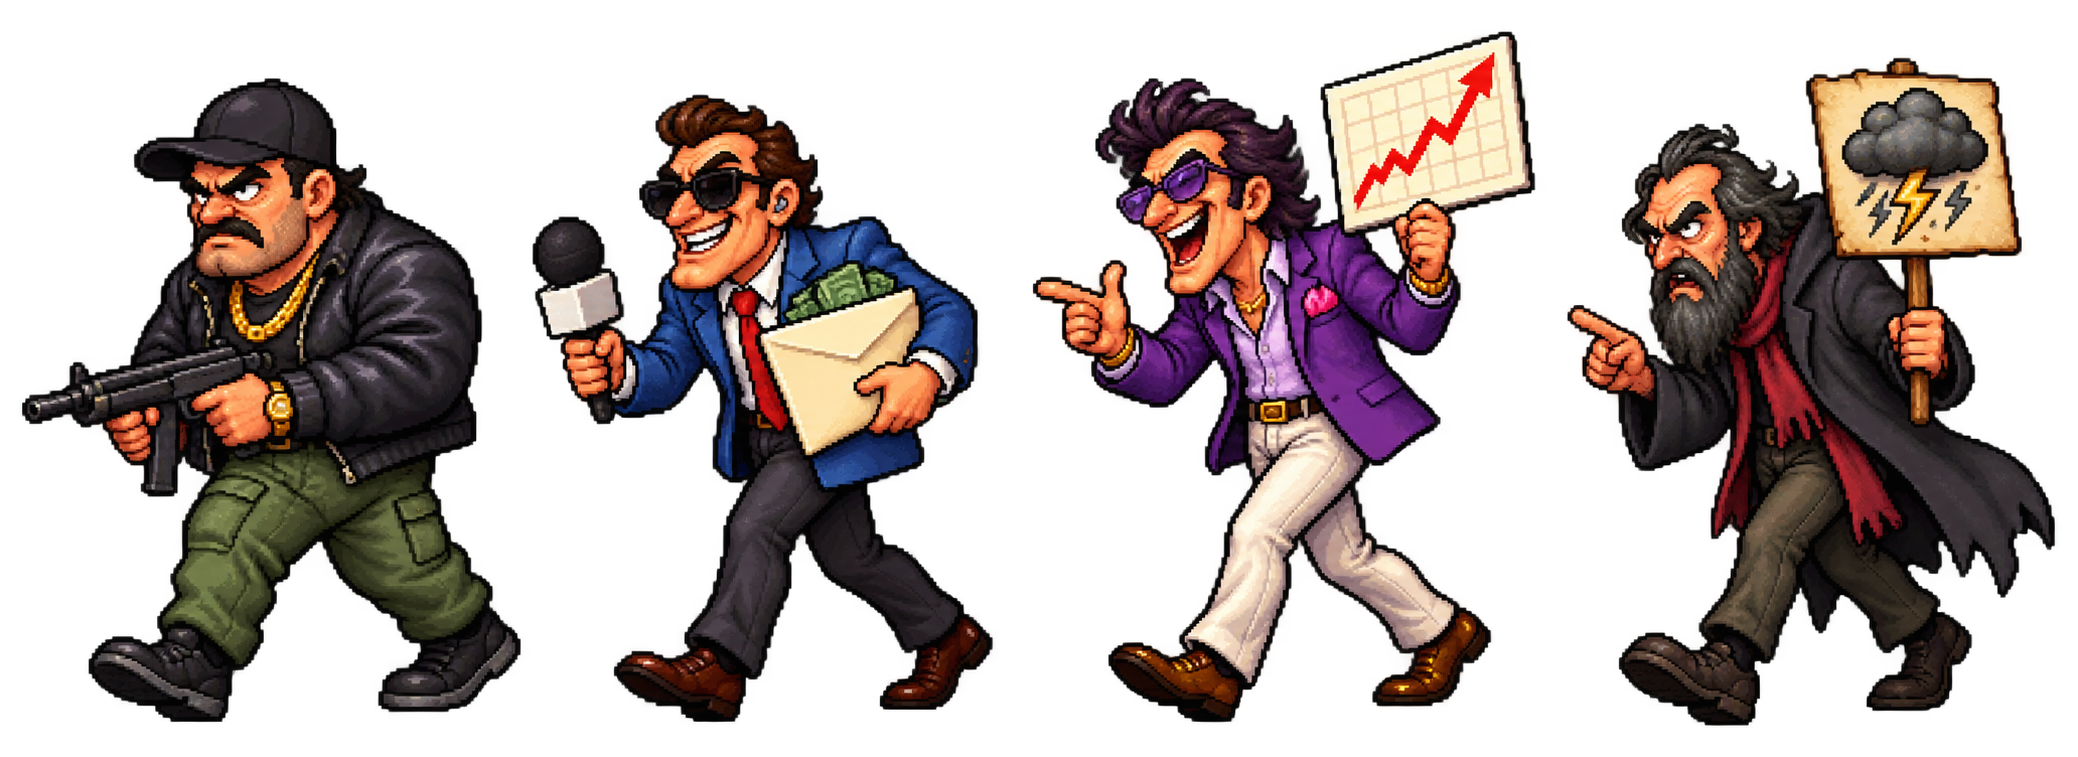
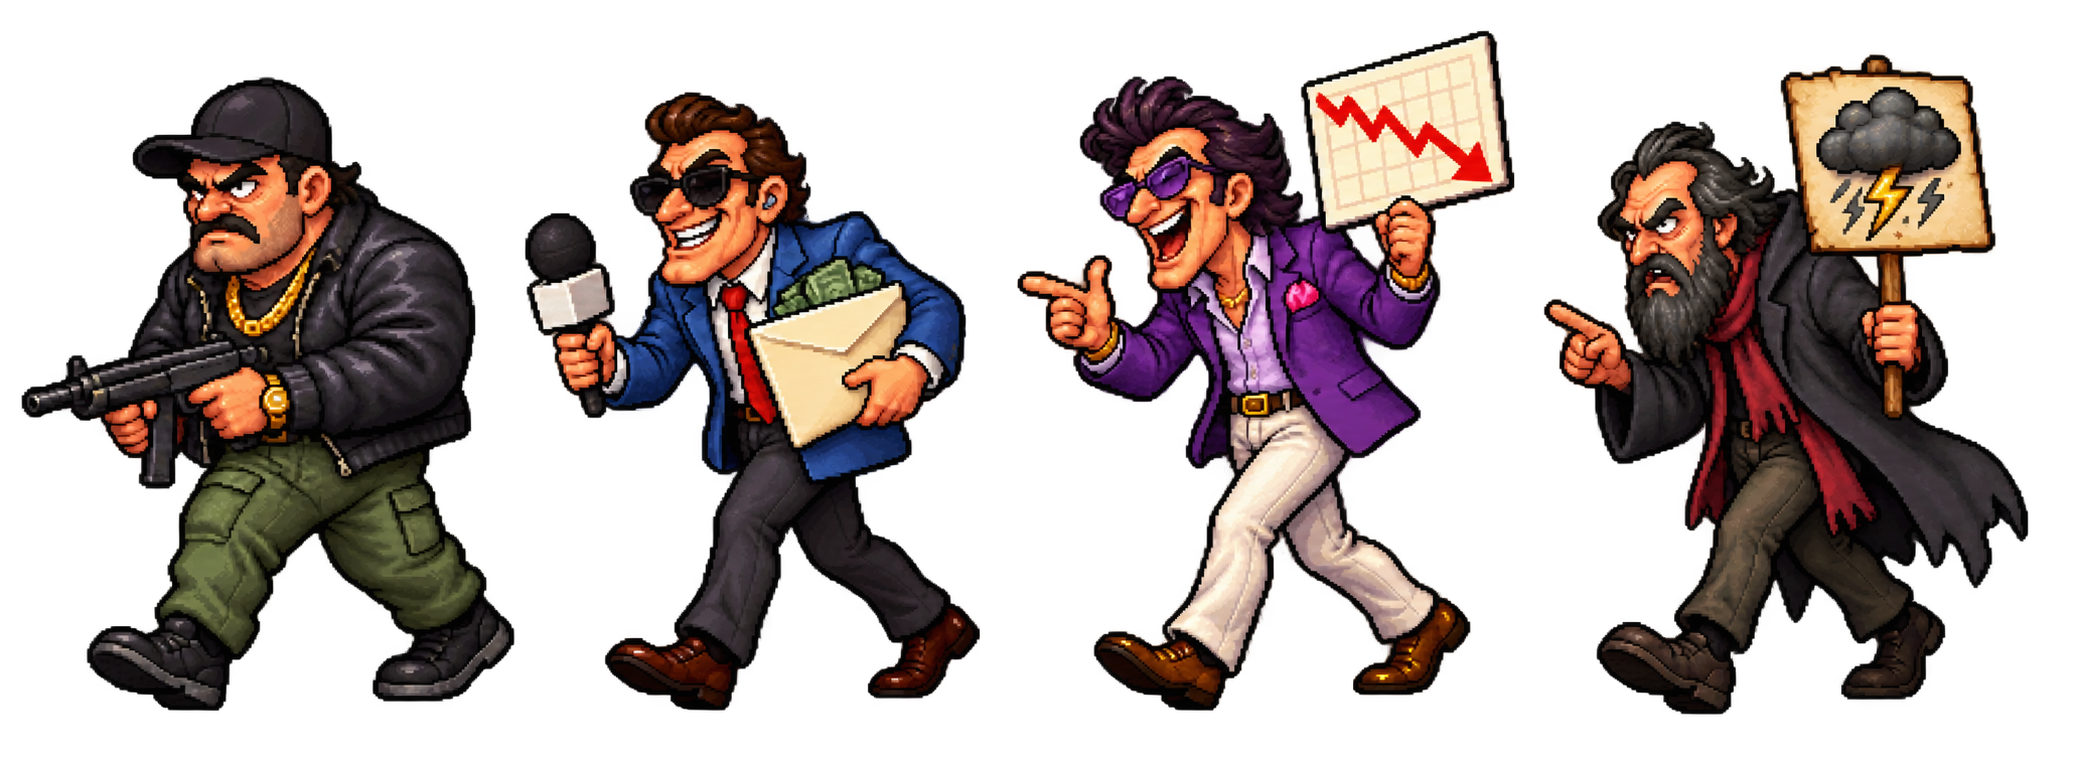
Fix econochanta bearish chart

diff --git a/README.md b/README.md
@@ -35,7 +35,7 @@ No hay dependencias ni compilación. El juego está hecho con Canvas 2D, JavaScr
 
 `assets/cordoba-landmarks.png` es una lámina transparente generada con la herramienta integrada de OpenAI a partir de esta consigna: «Tres hitos reconocibles de Córdoba, Argentina: fachada del Cabildo con arcos y torre del reloj, Iglesia de los Capuchinos con torres neogóticas, y La Cañada con puente de piedra y árboles; tres escenas separadas en una fila, elevaciones frontales en estilo pixel art de plataformas, sin cielo, suelo, personas ni texto». Las referencias públicas de los lugares se pueden consultar en [Cabildo y Catedral, foto de dominio público](https://commons.wikimedia.org/wiki/File:Catedral_y_Cabildo_de_Cordoba.JPG), [Iglesia de los Capuchinos](https://commons.wikimedia.org/wiki/File:Iglesia_de_los_Capuchinos_Cordoba_Argentina.jpg) y [La Cañada](https://commons.wikimedia.org/wiki/File:La_Ca%C3%B1ada.jpg). Estas fotos no están incluidas en el repositorio: la lámina es una recreación generada, no una reproducción de esos archivos.
 
-`assets/random-enemies.png` es una lámina de cuatro sprites generada con la herramienta integrada de OpenAI a partir de esta consigna: «Cuatro arquetipos ficticios y genéricos en una fila, narco, periodista ensobrado, econochanta y agorero del fracaso, separados y orientados a la izquierda, con siluetas expresivas en pixel art de plataformas y fondo transparente; sin nombres, logotipos ni personas identificables».
+`assets/random-enemies.png` es una lámina de cuatro sprites generada con la herramienta integrada de OpenAI a partir de esta consigna: «Cuatro arquetipos ficticios y genéricos en una fila, narco, periodista ensobrado, econochanta y agorero del fracaso, separados y orientados a la izquierda, con siluetas expresivas en pixel art de plataformas y fondo transparente; sin nombres, logotipos ni personas identificables». Luego se editó la misma lámina para que el gráfico del econochanta apunte hacia abajo, manteniendo los otros personajes y el fondo transparente.
 
 `assets/political-enemies.png` es otra lámina generada con la herramienta integrada de OpenAI a partir de esta consigna: «Tres adversarios políticos ficticios en una fila, progre con cartel, zurdo con abrigo rojo y sindigarca con megáfono; sprites completos orientados a la izquierda, pixel art detallado y fondo transparente; sin nombres, insignias ni personas reales». Progre aparece de forma fija en Buenos Aires; zurdo y sindigarca en Córdoba. Además, pueden salir en los puestos variables de cada partida.
 
